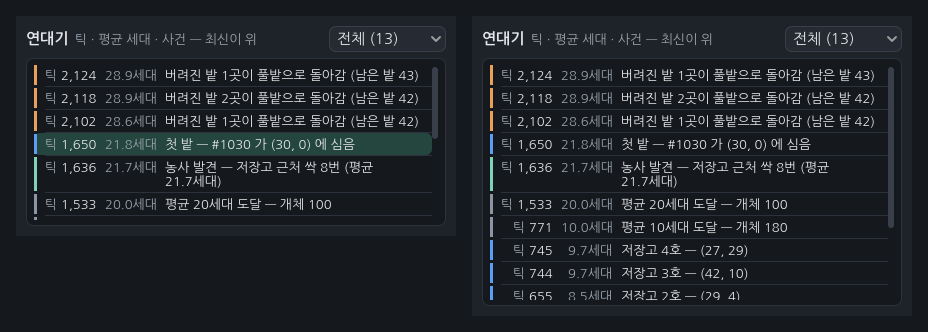
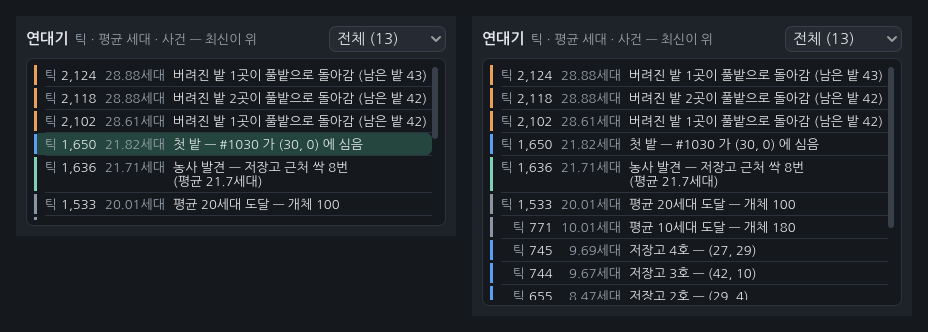
4단계 검토 고침(연대기): G04·G10·G26·G54·G38·G51
- G04: 다시 읽은 뒤 덧붙일 때 틱이 아니라 연대기 위치로 중복을 거름. 한 틱 안의 사건(발견·저장고·첫 밭·밭 잃음)은
  진행 전 틱 번호를 달고 나와, 스냅숏을 열거나 비교를 끝낸 바로 뒤 틱의 사건이 연대기 창에서 빠졌음.
  검사: demo_fast·씨앗 2 의 126틱 — set_experiments(비우지 않은 사건 있을 때·없을 때)·스냅숏 열기·비교 끝내기 뒤 한 틱.
- G10: 멸종 사건의 mean_gen = 마지막 틱에 죽은 개체(마지막 개체군)의 평균 세대(sim_world.gd, 상태 없이 계통 기록으로 셈 —
  스냅숏에서 이어 돌려도 같음). 예전에는 늘 0.0. 역사 해시는 그대로(연대기를 담지 않음 — 여러 세계로 고치기 전/후 비교).
  검사: run_tests 의 test_extinction_mean_gen(새 함수, 끝에 덧붙임).
- G26: 줄의 평균 세대를 저장값 그대로(0.01 단위 = chronicle.csv) 보여 두 번 반올림하지 않음(422틱 "4.4세대 … 평균 4.3세대").
- G54: 줄바꿈에서 괄호 안·숫자로 시작하는 낱말 앞의 빈칸은 다른 자리가 없을 때만 끊음("(30, / 0)"·"(남은 밭 / 55)").
- G38: chronicle_checks 의 MIN_CHECKS = 실제 검사 수 85.
- G51: A/B 이름표와 틱 사이 간격을 ui.chronicle.badge_gap 으로.
- 연대기 캡처에 멸종 참고 그림(chronicle-extinct), chronicle.png 다시 찍음. VIEW-API·SIM-API 문서 고침.

Claude-Session: https://claude.ai/code/session_01YVqtHmSPA55UmHSj3Cd1CX

diff --git a/docs/VIEW-API.md b/docs/VIEW-API.md
@@ -388,20 +388,20 @@ func run(t) -> void:
   |---|---|
   | `signal row_activated(tick: int, actor: int, index: int)` | 줄을 눌렀을 때(행위자 없으면 -1, 실험 번호). LabMain 없이도 받을 수 있게(비교 모드 검사) |
   | `func set_experiments(list: Array)` | `experiments_changed` 와 같음: 각 `world.chronicle` 을 처음부터 읽어 **우리 사본** 줄로(연대기 사전은 고치지 않음, 검사). `bind_lab` 도 지금 실험을 바로 이것으로 읽음 |
-  | `func append_events(index: int, list: Array)` | `events_tagged` 와 같음: 새 사건만 덧붙임. 그 실험을 마지막으로 다시 읽은 틱 **이하**의 사건은 이미 연대기에 있으므로 건너뜀(아직 비우지 않은 사건이 다시 읽은 뒤에 와도 두 번 들어가지 않음) |
+  | `func append_events(index: int, list: Array)` | `events_tagged` 와 같음: 새 사건만 덧붙임. 다시 읽을 때 연대기에 이미 있던 사건(그때 아직 비우지 않은 것)은 **연대기 위치로** 건너뜀: LabMain 은 `drain_events` 바로 뒤에 보내므로 목록 = 연대기의 끝이고, 그 가운데 위치가 다시 읽은 항목 수보다 앞인 것만 뺌(두 번 들어가지 않음). 틱으로 거르지 않음 — 발견·저장고·첫 밭·밭 잃음은 한 틱을 진행하는 도중에 진행 전 틱 번호를 달고 나와, "다시 읽은 틱 이하 = 이미 읽음" 으로 거르던 때는 스냅숏을 열거나 비교를 끝낸 바로 뒤 틱의 사건을 잃었음(검사). 연대기의 끝과 다른 목록(검사가 꾸며 넣은 사건)은 모두 덧붙임 |
   | `func set_filter(id)` · `filter()` · `const FILTER_*`(0 전체 · 1 발견 · 2 건물 · 3 밭 잃음 · 4 세대 · 5 멸종) · `const GROUP_OF`(kind → 묶음) | 거르기. 모르는 kind 는 전체에만 |
   | `func activate_item(i)` | 줄을 누른 것과 같음 |
   | `item(i) -> {tick, kind, actor, text, gen, index, group}` · `older_count()` · `group_count(id)` · `item_tooltip(i)` · `item_rect(i)`(전역) · `scroll_to_item(i)` · `list_stats() -> {drawn, shaped, height}` · `list_control()` · `var max_items`(바꾸면 `refresh()`) | 검사·캡처용 |
   | `static wrap_text(font, text, fs, width, max_lines, ellipsis)` · `ellipsize(...)` · `group_color(g)` · `commas(v)` | 도움 함수 |
 
 - 배치(노드 이름 고정): `Head`(HBox: "연대기" 굵게 · 흐린 열 설명 "틱 · 평균 세대 · 사건 — 최신이 위" · `Filter` OptionButton) / `Card`(CardPanel) ⊃ `Rows`(목록 Control) | `Scroll`(VScrollBar). 폭 `ui.chronicle.width`, 자기 테마 = `UiTheme.build()`(실험실 뿌리와 같은 것 — 혼자 띄워도 같은 모양). 거르기 단추·목록은 초점을 받지 않음(스페이스 = 멈춤).
-- 목록 = **Control 하나가 보이는 줄만 그림**(300줄이어도 노드 9개, 검사). 줄 = 종류 색 띠(`ui.chronicle.stripe_width`) · [비교: A/B 이름표 — 테두리 = `ui.graph.series_a`/`series_b`] · "틱 N"(숫자 오른쪽 맞춤) · "G세대"(흐림 — 목록 안에서만 "평균" 을 줄임, 머리 줄·풍선 도움말·`item_text` 에는 있음) · 문장. 문장은 **낱말(빈칸) 단위로 접음**(ICU 줄바꿈은 한글 음절 사이 "남/은" 에서 끊어서 직접 접음, 한 낱말이 폭보다 길 때만 글자 단위), 최대 `ui.chronicle.text_max_lines` 줄 넘으면 말줄임, 풍선 도움말에 실험 이름·틱·평균 세대·문장 전체·누르면 하는 일. 줄마다 접은 결과를 사본 줄에 담아 두고 글 폭이 바뀔 때만 다시 접음(새 사건 하나 → 하나만, 검사). 열 폭(틱·세대)은 보이는 줄 가운데 가장 넓은 것.
+- 목록 = **Control 하나가 보이는 줄만 그림**(300줄이어도 노드 9개, 검사). 줄 = 종류 색 띠(`ui.chronicle.stripe_width`) · [비교: A/B 이름표 — 테두리 = `ui.graph.series_a`/`series_b`] · "틱 N"(숫자 오른쪽 맞춤) · "G세대"(흐림 — 목록 안에서만 "평균" 을 줄임, 머리 줄·풍선 도움말·`item_text` 에는 있음. G = 사건의 `mean_gen` 그대로 0.01 단위 = chronicle.csv — 0.1 단위로 한 번 더 반올림하면 반올림 전 값으로 쓴 문장 속 "(평균 X세대)" 와 어긋났음: 4.35 → "4.4세대" 옆에 "평균 4.3세대") · 문장. 문장은 **낱말(빈칸) 단위로 접음**(ICU 줄바꿈은 한글 음절 사이 "남/은" 에서 끊어서 직접 접음, 한 낱말이 폭보다 길 때만 글자 단위). 다음 낱말이 넘치면 그 줄의 빈칸 가운데 덜 붙여 둔 마지막 자리에서 끊음: 숫자로 시작하는 낱말 앞("밭 1곳이"·"시도 121회")과 괄호 안("(30, 0)"·"(남은 밭 55)")은 다른 자리가 없을 때만(괄호 묶음이 폭보다 넓을 때 — 그때도 수는 앞 낱말과 함께 "(남은" / "밭 55)"). 시뮬레이션 문장은 그대로, 최대 `ui.chronicle.text_max_lines` 줄 넘으면 말줄임, 풍선 도움말에 실험 이름·틱·평균 세대·문장 전체·누르면 하는 일. 줄마다 접은 결과를 사본 줄에 담아 두고 글 폭이 바뀔 때만 다시 접음(새 사건 하나 → 하나만, 검사). 열 폭(틱·세대)은 보이는 줄 가운데 가장 넓은 것.
 - 보이는 줄 = 실험마다(거르기 묶음의) 줄 끝에서 틱이 큰 것을 골라 `max_items` 개(O(max_items)). 같은 틱이면 뒤 실험(B)이 위(한 틱에 A 다음 B 를 진행). 넘치면 맨 아래 "더 오래된 K개는 생략 — 내보낸 chronicle.csv 에 모두 있음". 거르기 항목에 사건 수 "발견 (3)"(모든 실험 합, 색 견본 = 띠 색 — 범례 구실).
 - 스크롤: 막대는 늘 자리를 차지(나타났다 사라지며 글 폭이 바뀌어 다시 접히지 않게, 필요 없으면 투명). 휠 = `ui.chronicle.wheel_step_px`. 읽던 중(맨 위가 아닐 때) 새 줄이 위에 붙으면 읽던 줄이 제자리(검사), 맨 위를 보고 있었으면 새 줄이 보임.
 - 고른 줄(누른 줄)은 강조(`ItemList` 의 selected 상자), 거르기를 바꿨다 와도 유지(그래프 시점 표시와 맞게), 실험이 바뀌면 지움. 행위자 고르기: LabMain 의 `select_slime` 이 실험 번호를 받으면(인자 2개) `select_slime(actor, index)`, 3단계처럼 id 하나만 받으면 A(0) 의 줄만 고름(B 의 id 를 A 세계에서 고르면 다른 개체).
-- 띠 색 `ui.chronicle.colors`(묶음별: `discovery` 민트 = 테마 강조 · `building` 파랑 · `farm_lost` 주황 = 경고 · `milestone` 회청 · `extinction` 빨강 = 위험 · `other`). 어두운 바탕(#15181d)에서 색각 이상 모의 모든 쌍 ΔE ≥ 9.8, 빨강·주황(위험·경고 뜻 색)은 정상 시각 ΔE 14.8 — 색만으로 구별하지 않고 문장이 종류를 말함. 글자 크기 = `ui.chronicle.text_font_size`(문장)·`ui.lab.font_size_small`(틱·세대), 여백 `row_pad_v`·`col_gap`·`badge_pad_h`·`badge_radius`, 견본 `swatch_px`.
-- 캡처: `xvfb-run -a godot --path . --rendering-driver opengl3 --resolution 1600x900 --script res://tests/chronicle_capture.gd -- --out=폴더 [--extra]` → `chronicle.png`(demo_fast·씨앗 1·세대 이정표 10세대마다, 2,130틱 — 발견 3·저장고 4·첫 밭·밭 잃음 3·세대 2. 왼쪽 420×220 = 아래 자리 높이, 첫 밭 줄을 누른 상태 / 오른쪽 420×300). `--extra`: `chronicle-compare`(A/B)·`chronicle-filter`(건물)·`chronicle-filter-farm`·`chronicle-limit`(max_items 6)·`chronicle-empty`.
-- 검사 `tests/view/chronicle_checks.gd`: 다시 읽기·순서·글·중복 없음·덧붙이기·거르기(단추 포함)·연대기 그대로·400개에서 300줄 + "더 오래된 100개"·노드 수·보이는 줄만 그림·새 줄만 접음·읽던 줄 제자리·긴 문장 말줄임·풍선 도움말·휠·고른 줄 유지·크기, 비교 모드는 `Experiment` 둘을 `set_experiments([A, B])`·`append_events(1, …)` 로(A/B 머리·틱 순 섞기·같은 틱이면 B 위·`row_activated(틱, 행위자, 1)`·실제 마우스 클릭), 실험실 연결(`bind_lab` 두 번에도 한 번씩 · `advance_frame` 의 `events_tagged` · 마우스로 첫 밭 줄 → `request_cursor` + 그 개체 선택 · 역사 해시 그대로), 낱말 단위 줄바꿈.
+- 띠 색 `ui.chronicle.colors`(묶음별: `discovery` 민트 = 테마 강조 · `building` 파랑 · `farm_lost` 주황 = 경고 · `milestone` 회청 · `extinction` 빨강 = 위험 · `other`). 어두운 바탕(#15181d)에서 색각 이상 모의 모든 쌍 ΔE ≥ 9.8, 빨강·주황(위험·경고 뜻 색)은 정상 시각 ΔE 14.8 — 색만으로 구별하지 않고 문장이 종류를 말함. 글자 크기 = `ui.chronicle.text_font_size`(문장)·`ui.lab.font_size_small`(틱·세대), 여백 `row_pad_v`·`col_gap`·`badge_pad_h`·`badge_radius`·`badge_gap`(A/B 이름표와 틱 사이), 견본 `swatch_px`.
+- 캡처: `xvfb-run -a godot --path . --rendering-driver opengl3 --resolution 1600x900 --script res://tests/chronicle_capture.gd -- --out=폴더 [--extra]` → `chronicle.png`(demo_fast·씨앗 1·세대 이정표 10세대마다, 2,130틱 — 발견 3·저장고 4·첫 밭·밭 잃음 3·세대 2. 왼쪽 420×220 = 아래 자리 높이, 첫 밭 줄을 누른 상태 / 오른쪽 420×300). `--extra`: `chronicle-compare`(A/B)·`chronicle-filter`(건물)·`chronicle-filter-farm`·`chronicle-limit`(max_items 6)·`chronicle-empty`·`chronicle-extinct`(기본·자원 절반·씨앗 1 — 4세대까지 번식한 뒤 699틱 멸종, 멸종 줄 "4.00세대").
+- 검사 `tests/view/chronicle_checks.gd`: 다시 읽기·순서·글·중복 없음·덧붙이기·거르기(단추 포함)·연대기 그대로·400개에서 300줄 + "더 오래된 100개"·노드 수·보이는 줄만 그림·새 줄만 접음·읽던 줄 제자리·긴 문장 말줄임·풍선 도움말·휠·고른 줄 유지·크기, 비교 모드는 `Experiment` 둘을 `set_experiments([A, B])`·`append_events(1, …)` 로(A/B 머리·틱 순 섞기·같은 틱이면 B 위·`row_activated(틱, 행위자, 1)`·실제 마우스 클릭), 실험실 연결(`bind_lab` 두 번에도 한 번씩 · `advance_frame` 의 `events_tagged` · 마우스로 첫 밭 줄 → `request_cursor` + 그 개체 선택 · 역사 해시 그대로), 다시 읽은 바로 뒤 틱의 사건(demo_fast·씨앗 2 의 126틱 "저장 발견"·"저장고 1호": `set_experiments` 뒤 — 비우지 않은 사건이 있을 때·없을 때 —, 실험실에서 스냅숏을 열고, 비교를 끝내고 한 틱 → 줄 수 = 세계 연대기), 줄의 평균 세대 = 저장값·문장과 어긋나지 않음(씨앗 1 의 422틱 "4.35세대" · 문장 4.3), 낱말 단위 줄바꿈(괄호 안·숫자 앞에서 끊지 않음 — 여러 폭에서 줄마다 괄호 짝·숫자로 시작하는 줄 없음, 폭보다 넓은 괄호는 안에서 접되 수는 앞 낱말과). `MIN_CHECKS` = 실제 검사 수(85 — 고정 씨앗이라 늘 같음).
 
 ## LabSound — `scripts/ui/lab_sound.gd` (`class_name LabSound`, Node)
 

diff --git a/docs/SIM-API.md b/docs/SIM-API.md
@@ -42,7 +42,7 @@
 | `is_extinct()`, `extinct_tick`, `peak_population` | | 멸종·최고 인구 |
 | `cfg` | Dictionary | 이 세계의 실험 설정(`SimConfig.build` 결과). **읽기 전용 — 화면은 절대 쓰지 않음**(시뮬레이션이 매 틱 읽는 살아 있는 사전). 화면이 읽는 키: `cfg.time.day_ticks`(날 표시, LabMain), `cfg.brain.weight_clamp`(두뇌 열지도 색 상한, InfoPanel), `cfg.hash.every`(검사만), **모든 잎 키**(ParamPanel — `cfg` 를 깊은 사본으로 떠서 다음 실험 조건과 견주고 "지금 실험" 요약에만 씀). ParamPanel 은 스냅숏 저장 파일 이름에 `tick` 도 읽음 |
 
-사건 `kind`: `discovery`(+`stage`), `store_built`(+`tile`), `first_farm`, `farm_lost`, `milestone`, `extinction`.
+사건 `kind`: `discovery`(+`stage`), `store_built`(+`tile`), `first_farm`, `farm_lost`, `milestone`, `extinction`. `mean_gen` = 사건 때의 평균 세대(0.01 단위) — `extinction` 은 개체가 모두 사라진 뒤라 마지막 개체군(마지막 틱에 죽은 개체)의 평균 세대.
 
 ## 상수·정적 도움 함수
 
